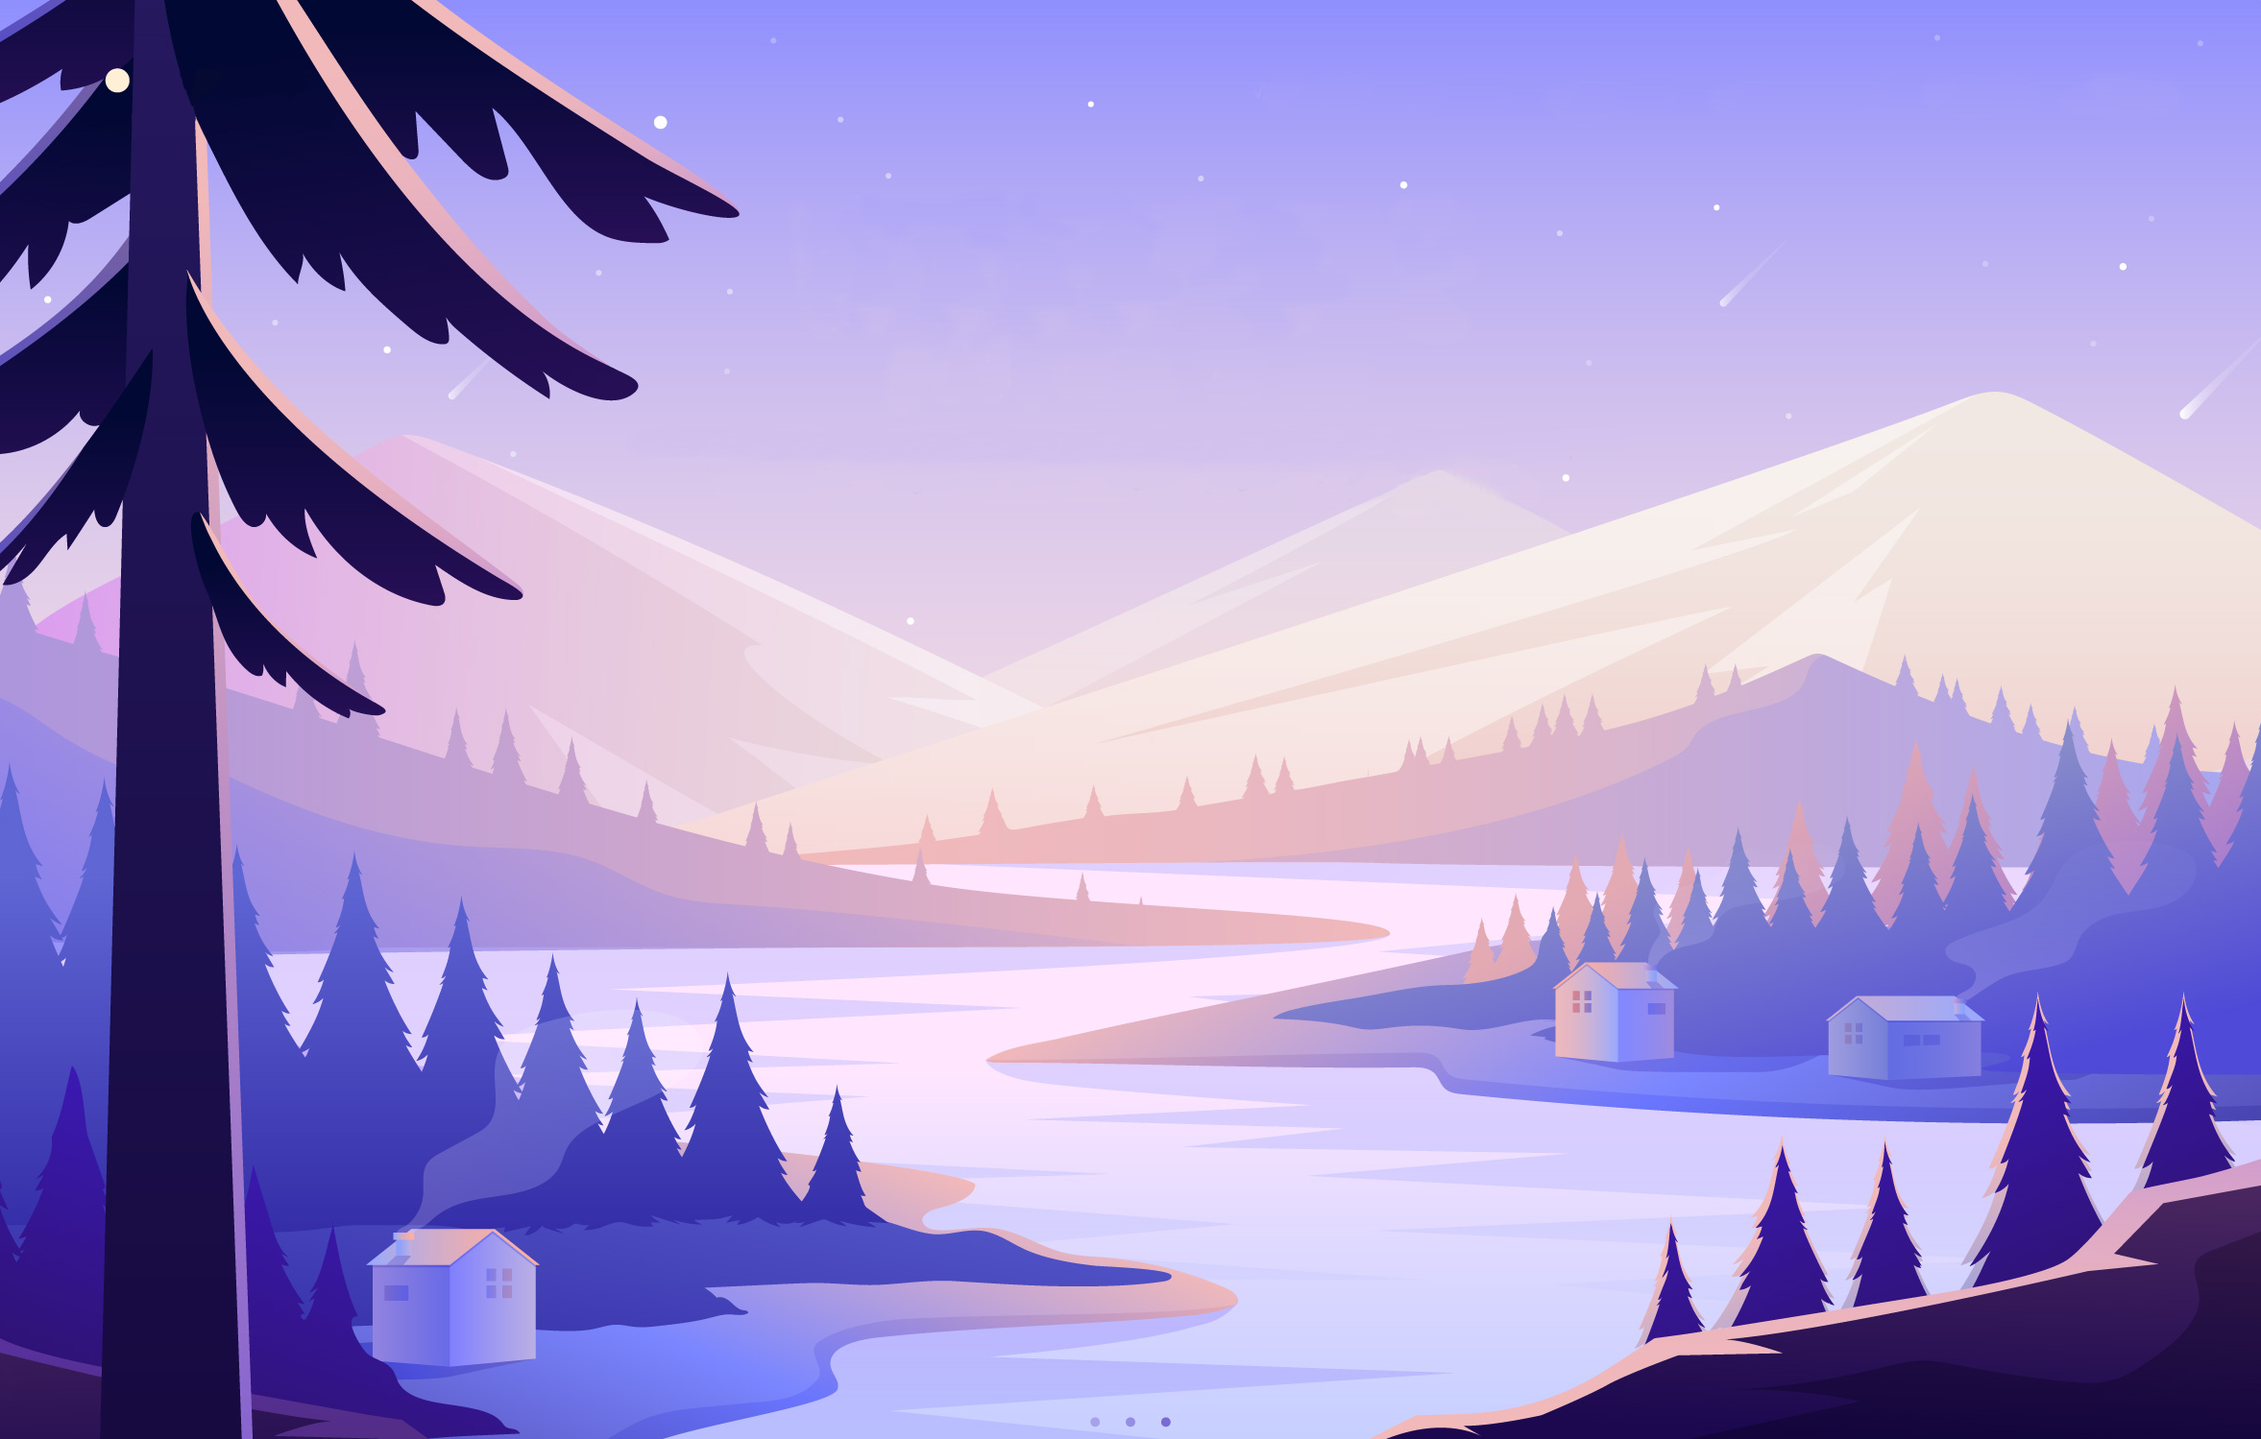
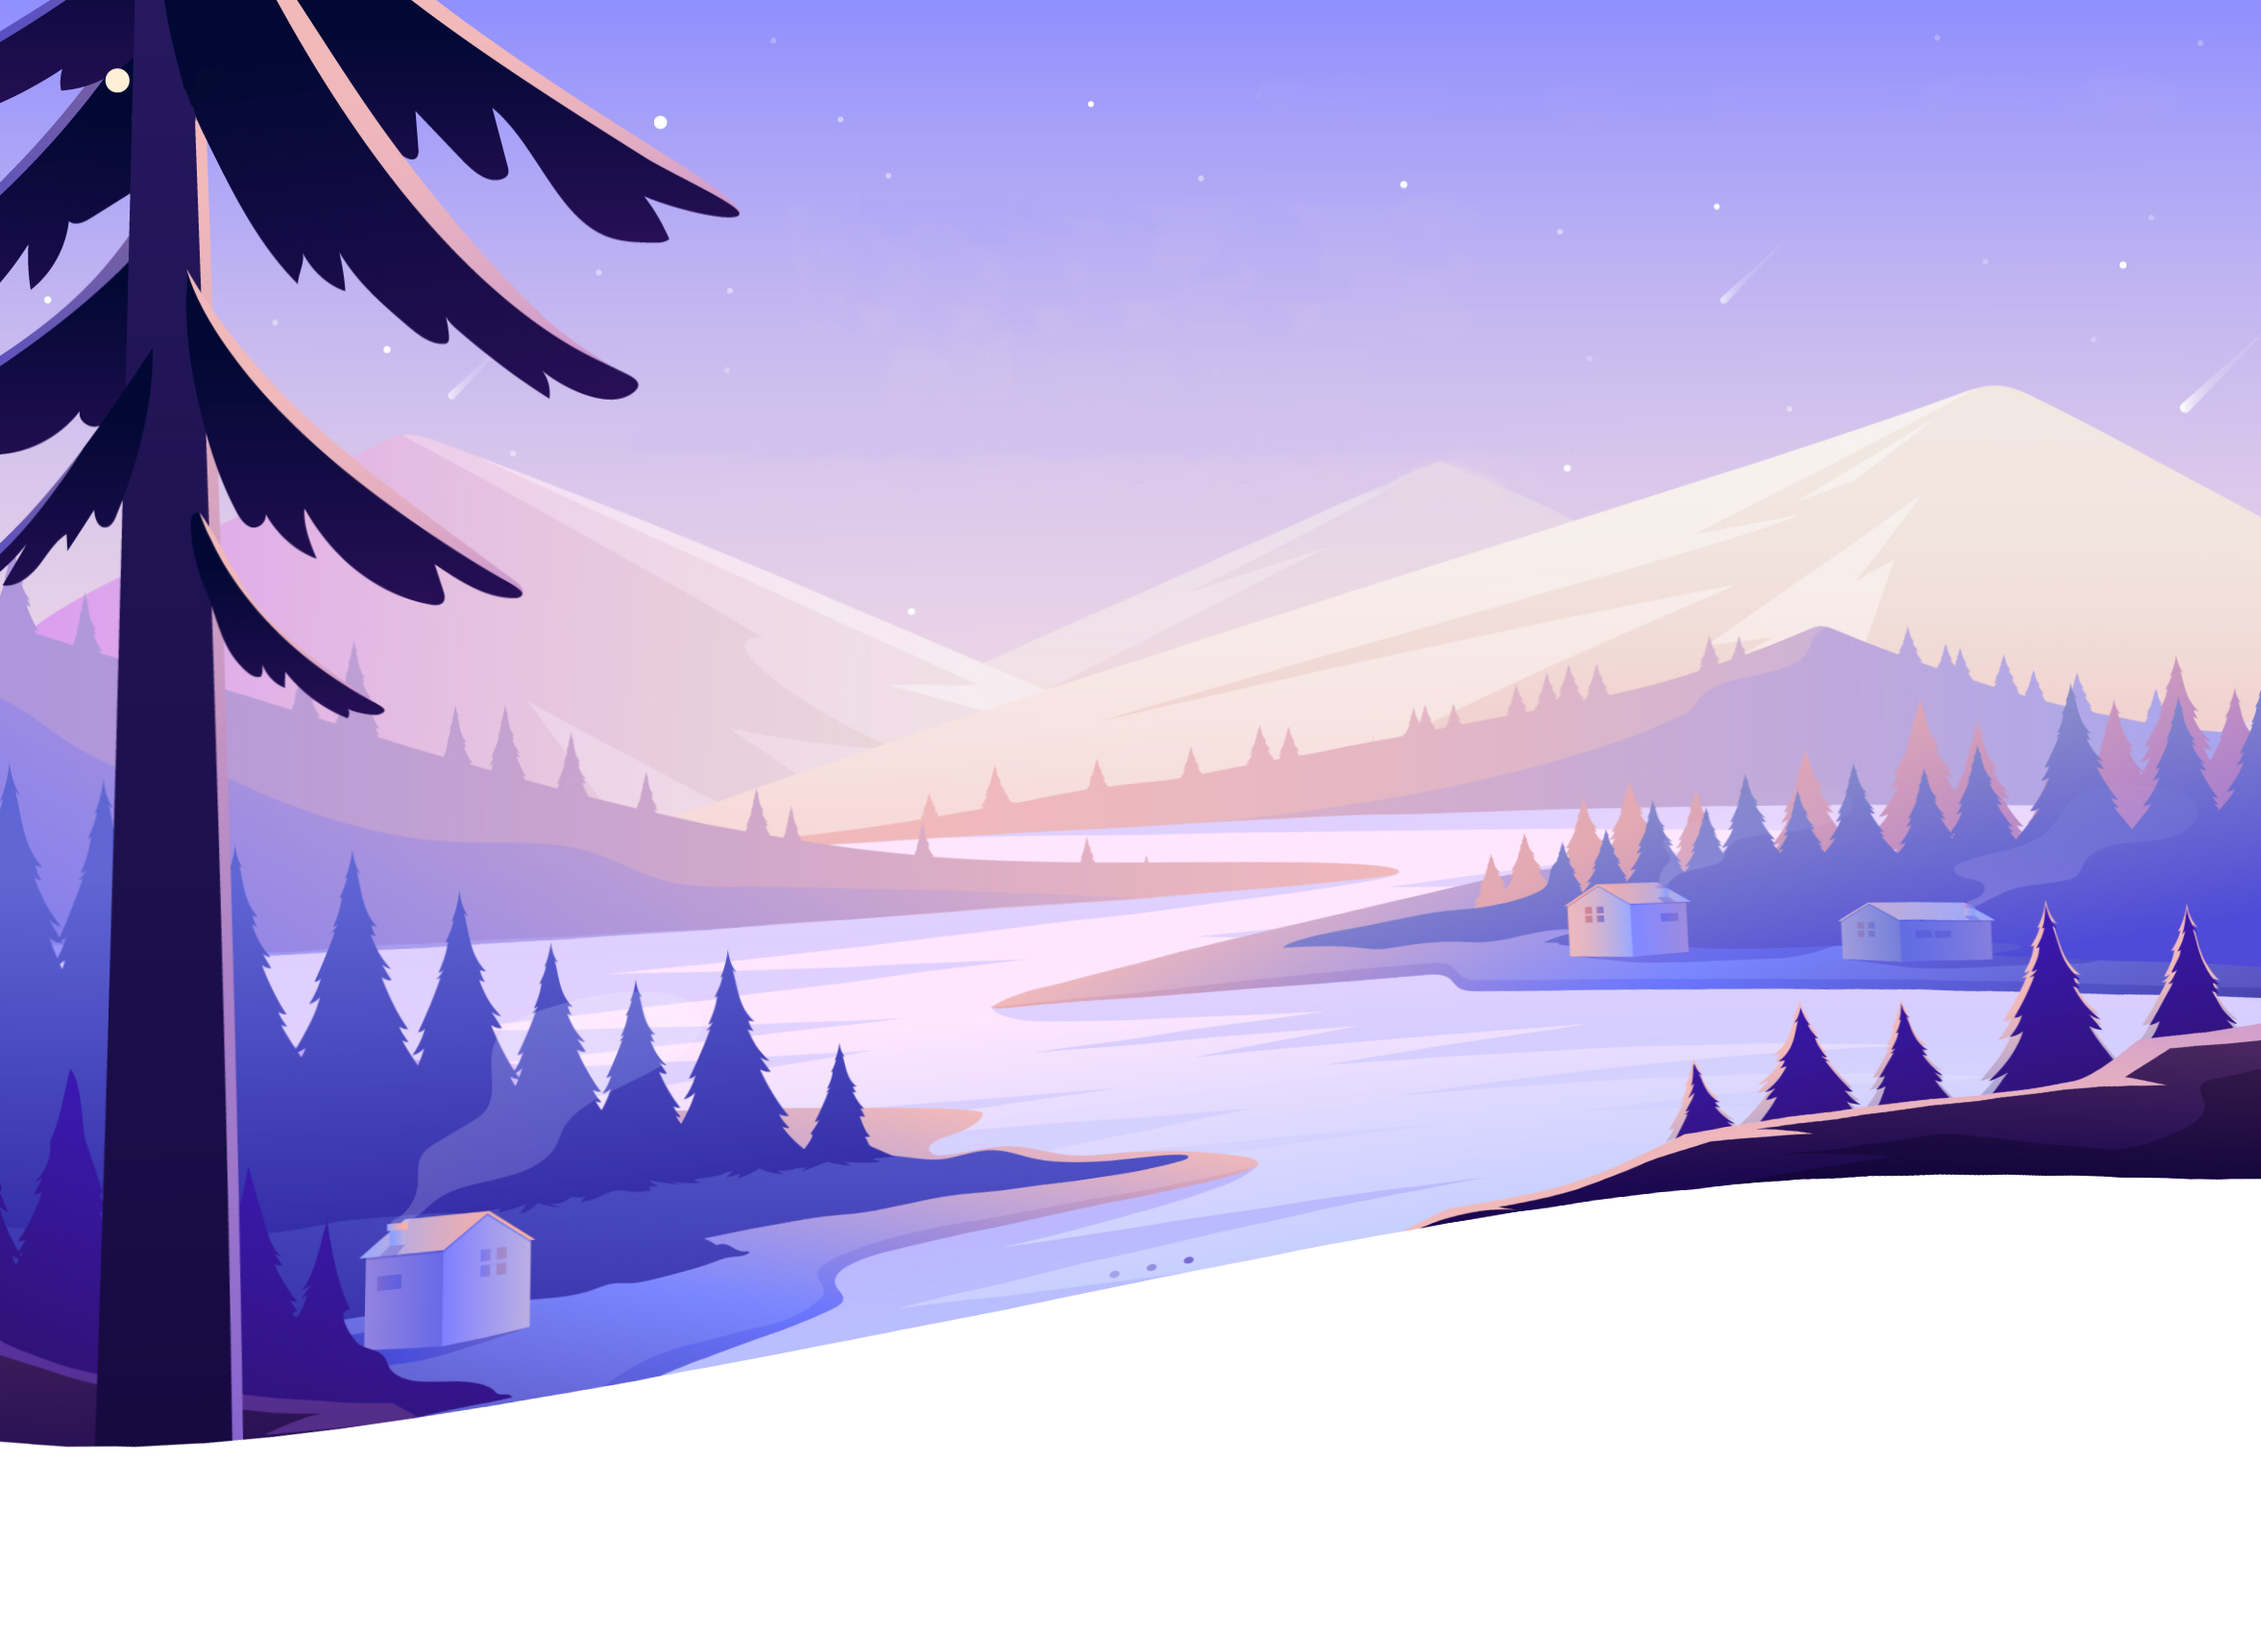
.

diff --git a/index.html b/index.html
@@ -41,13 +41,14 @@
 			<div class="container-fluid m-pad">
 				<div class="menu-header">
 				   <div class="dsk-logo"><a class="nav-brand" href="index.html">
-					  <img src="images/logo/moondevpsd.png" alt="Logo" class="mega-white-logo"/>
-					  <!-- <img src="images/logo/moondevpsd.png" alt="Logo" class="mega-darks-logo"/> -->
+					  <img src="images/logo/moondev_white1.png" alt="Logo" class="mega-white-logo"/>
+					  <!-- <img src="images/logo/moondev_dark1.png" alt="Logo" class="mega-darks-logo"/> -->
 					  </a>
 				   </div>
 				   <div class="custom-nav" role="navigation">
 					  <ul class="nav-list">
-						 <li class="sbmenu">
+
+						 <!-- <li class="sbmenu">
 							<a href="#" class="menu-links">Home</a>
 							<div class="nx-dropdown">
 							   <div class="sub-menu-section">
@@ -114,8 +115,9 @@
 								  </div>
 							   </div>
 							</div>
-						 </li>
-						 <li class="sbmenu">
+						 </li> -->
+
+						 <!-- <li class="sbmenu">
 							<a href="#" class="menu-links">Pages</a>
 							<div class="nx-dropdown">
 							   <div class="sub-menu-section">
@@ -163,8 +165,9 @@
 								  </div>
 							   </div>
 							</div>
-						 </li>
-						 <li class="sbmenu">
+						 </li> -->
+
+						 <!-- <li class="sbmenu">
 							<a href="#" class="menu-links">Shortcodes</a>
 							<div class="nx-dropdown">
 							   <div class="sub-menu-section">
@@ -206,9 +209,10 @@
 								  </div>
 							   </div>
 							</div>
-						 </li>
+						 </li> -->
+
 						 <li class="sbmenu rpdropdown">
-							<a href="#" class="menu-links">Portfolio</a>
+							<a href="#" class="menu-links">Services</a>
 							<div class="nx-dropdown menu-dorpdown">
 							   <div class="sub-menu-section">
 								  <div class="sub-menu-center-block">
@@ -224,8 +228,9 @@
 							   </div>
 							</div>
 						 </li>
+
 						 <li class="sbmenu rpdropdown">
-							<a href="#" class="menu-links">Blog</a>
+							<a href="#" class="menu-links">Our Work</a>
 							<div class="nx-dropdown menu-dorpdown">
 							   <div class="sub-menu-section">
 								  <div class="sub-menu-center-block">
@@ -242,10 +247,50 @@
 							   </div>
 							</div>
 						 </li>
+
+						 <li class="sbmenu rpdropdown">
+							<a href="#" class="menu-links">Blog</a>
+							<!-- <div class="nx-dropdown menu-dorpdown">
+							   <div class="sub-menu-section">
+								  <div class="sub-menu-center-block">
+									 <div class="sub-menu-column smfull">
+										<ul>
+										   <li><a href="blog-grid-1.html">Blog Grid 1</a> </li>
+										   <li><a href="blog-grid-2.html">Blog Grid 2</a> </li>
+										   <li><a href="blog-right-sidebar.html">Blog Right Sidebar</a> </li>
+										   <li><a href="blog-left-sidebar.html">Blog Left Sidebar</a> </li>
+										   <li><a href="blog-single.html">Blog Single</a></li>
+										</ul>
+									 </div>
+								  </div>
+							   </div>
+							</div> -->
+						 </li>
+
+						 <li class="sbmenu rpdropdown">
+							<a href="#" class="menu-links">Contact Us</a>
+							<!-- <div class="nx-dropdown menu-dorpdown">
+							   <div class="sub-menu-section">
+								  <div class="sub-menu-center-block">
+									 <div class="sub-menu-column smfull">
+										<ul>
+										   <li><a href="blog-grid-1.html">Blog Grid 1</a> </li>
+										   <li><a href="blog-grid-2.html">Blog Grid 2</a> </li>
+										   <li><a href="blog-right-sidebar.html">Blog Right Sidebar</a> </li>
+										   <li><a href="blog-left-sidebar.html">Blog Left Sidebar</a> </li>
+										   <li><a href="blog-single.html">Blog Single</a></li>
+										</ul>
+									 </div>
+								  </div>
+							   </div>
+							</div> -->
+						 </li>
+
 						 <li>
-							<a href="#" class="menu-links right-bddr">&nbsp;</a>
+							<!-- <a href="#" class="menu-links right-bddr">&nbsp;</a> -->
+
 							<!--menu right border-->
-						 <li class="contact-show">
+						 <!-- <li class="contact-show">
 							<a href="#" class="btn-round- trngl btn-br bg-btn"><i class="fas fa-phone-alt"></i></a>
 							<div class="contact-inquiry">
 							   <div class="contact-info-">
@@ -267,10 +312,13 @@
 								  </div>
 							   </div>
 							</div>
-						 </li>
-						 <li><a href="get-quote.html" class="btn-br bg-btn3 btshad-b2 lnk">Request A Quote <span class="circle"></span></a> </li>
+						 </li> -->
+
+						 <!-- <li><a href="get-quote.html" class="btn-br bg-btn3 btshad-b2 lnk">Request A Quote <span class="circle"></span></a> </li> -->
+
 					  </ul>
 				   </div>
+
 				   <div class="mobile-menu2">
 					  <ul class="mob-nav2">
 						 <li><a href="#" class="btn-round- trngl btn-br bg-btn btshad-b1"  data-toggle="modal" data-target="#menu-popup"><i class="fas fa-envelope-open-text"></i></a></li>
@@ -278,6 +326,9 @@
 					  </ul>
 				   </div>
 				</div>
+
+
+
 				<!--Mobile Menu-->
 				<nav id="main-nav">
 				   <ul class="first-nav">
@@ -429,6 +480,8 @@
 				   </ul>
 				</nav>
 			 </div>
+
+
 		  </header>
 		  <!--Mobile contact-->
 		  <div class="popup-modal1">
@@ -464,6 +517,13 @@
 		  </div>
 		  <!--Mobile contact-->
 	<!--End Header -->
+
+<!-- --------------------------------------------------------------------------------------------------- -->
+<!-- --------------------------------------------------------------------------------------------------- -->
+<!-- --------------------------------------------------------------------------------------------------- -->
+<!-- --------------------------------------------------------------------------------------------------- -->
+<!-- --------------------------------------------------------------------------------------------------- -->
+
 <!--Start Hero-->
 <section class="hero-section business-startup">
 <div class="text-block">

diff --git a/css/style.css b/css/style.css
@@ -5,12 +5,12 @@
   background: #e8e8e8
 }
 ::-webkit-scrollbar-thumb:hover {
-  background: #fb5496
+  background: #9794fb
 }
 ::-webkit-scrollbar-thumb {
-  background-image: -webkit-linear-gradient(45deg, #ffbd84, #ff1f8e);
-  background-image: -o-linear-gradient(45deg, #ffbd84, #ff1f8e);
-  background-image: linear-gradient(45deg, #ffbd84, #ff1f8e)
+  background-image: -webkit-linear-gradient(45deg, #beb2f2, #9794fb);
+  background-image: -o-linear-gradient(45deg, #beb2f2, #9794fb);
+  background-image: linear-gradient(45deg, #beb2f2, #9794fb)
 }
 ::-moz-selection {
   background: rgba(166, 175, 189, .3)
@@ -18,6 +18,8 @@
 ::selection {
   background: rgba(166, 175, 189, .3)
 }
+
+
 * {
   -webkit-font-smoothing: antialiased;
   -moz-os-font-smoothing: grayscale;
@@ -358,7 +360,7 @@ header .dropdown-menu {
   padding: 0 20px;
   height: 85px;
   z-index: 99999;
-  border-bottom: 1px solid rgba(255, 255, 255, .1)
+  /* border-bottom: 1px solid rgba(255, 255, 255, .1) */
 }
 .fa-ani {
   margin-left: 5px;
@@ -375,11 +377,11 @@ header .dropdown-menu {
   justify-content: space-between;
   width: 100%
 }
-.right-bddr {
+/* .right-bddr {
   border-right: 1px solid rgba(255, 255, 255, .1);
   padding: 0 10px 0 0 !important;
   margin: 0 20px 0 0
-}
+} */
 .custom-nav .sbmenu>a::before {
   content: "+";
   position: absolute;
@@ -4396,10 +4398,12 @@ h3 a {
   -webkit-text-stroke: 1px #e8e8e8;
   -webkit-text-fill-color: #fff
 }
+/* Change this for background */
 .business-startup {
-  background: url(../images/hero/wave-hero.svg);
+  /* background: url(../images/hero/wave-hero.svg); */
+  background: url(../images/hero/Untitled-1.png); 
   background-repeat: no-repeat;
-  background-position: center top
+  background-position: center top;
 }
 .bg-light-ylo {
   background: #e9f5ff
